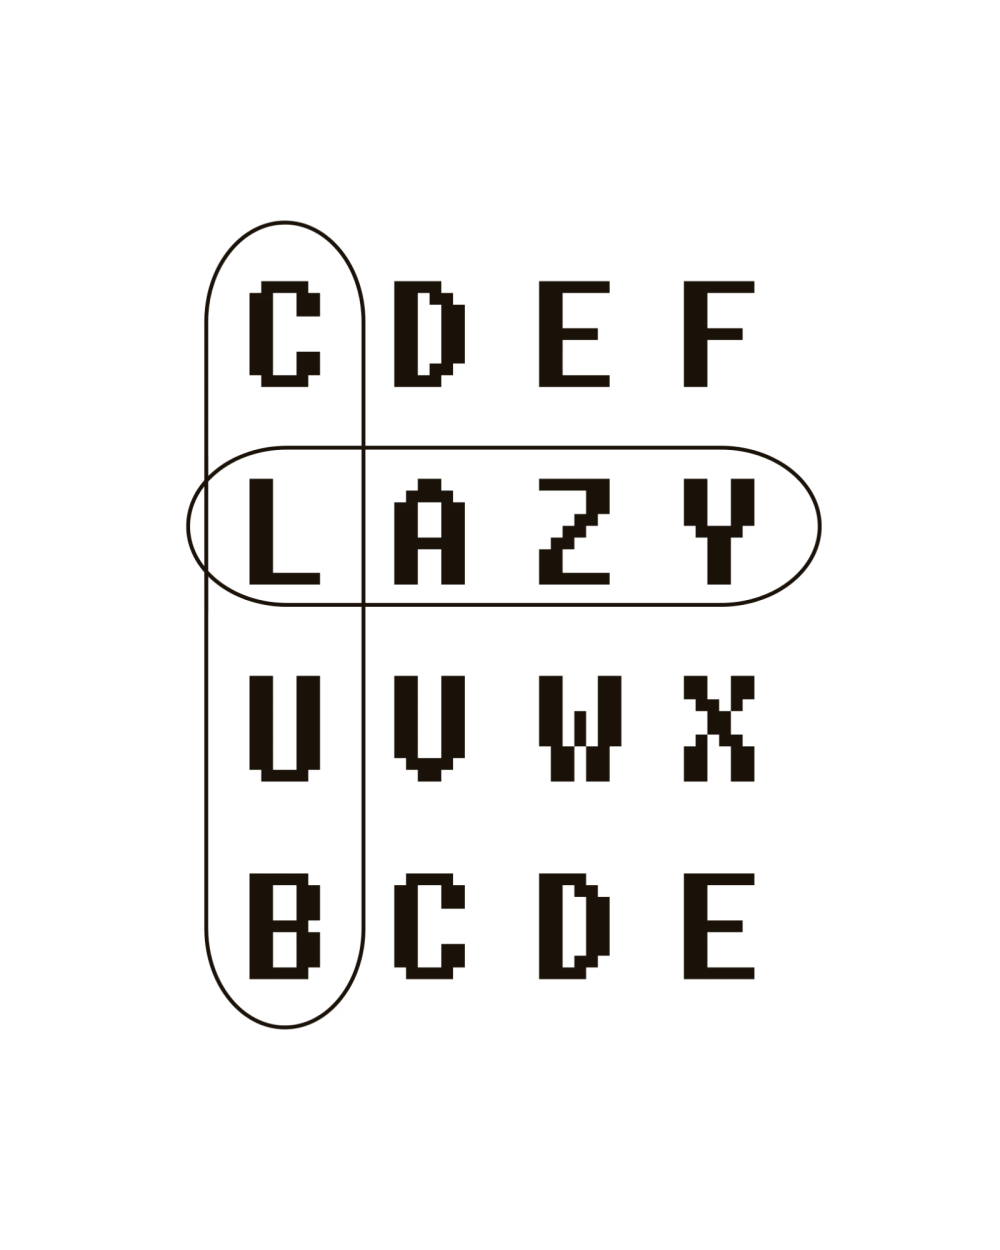
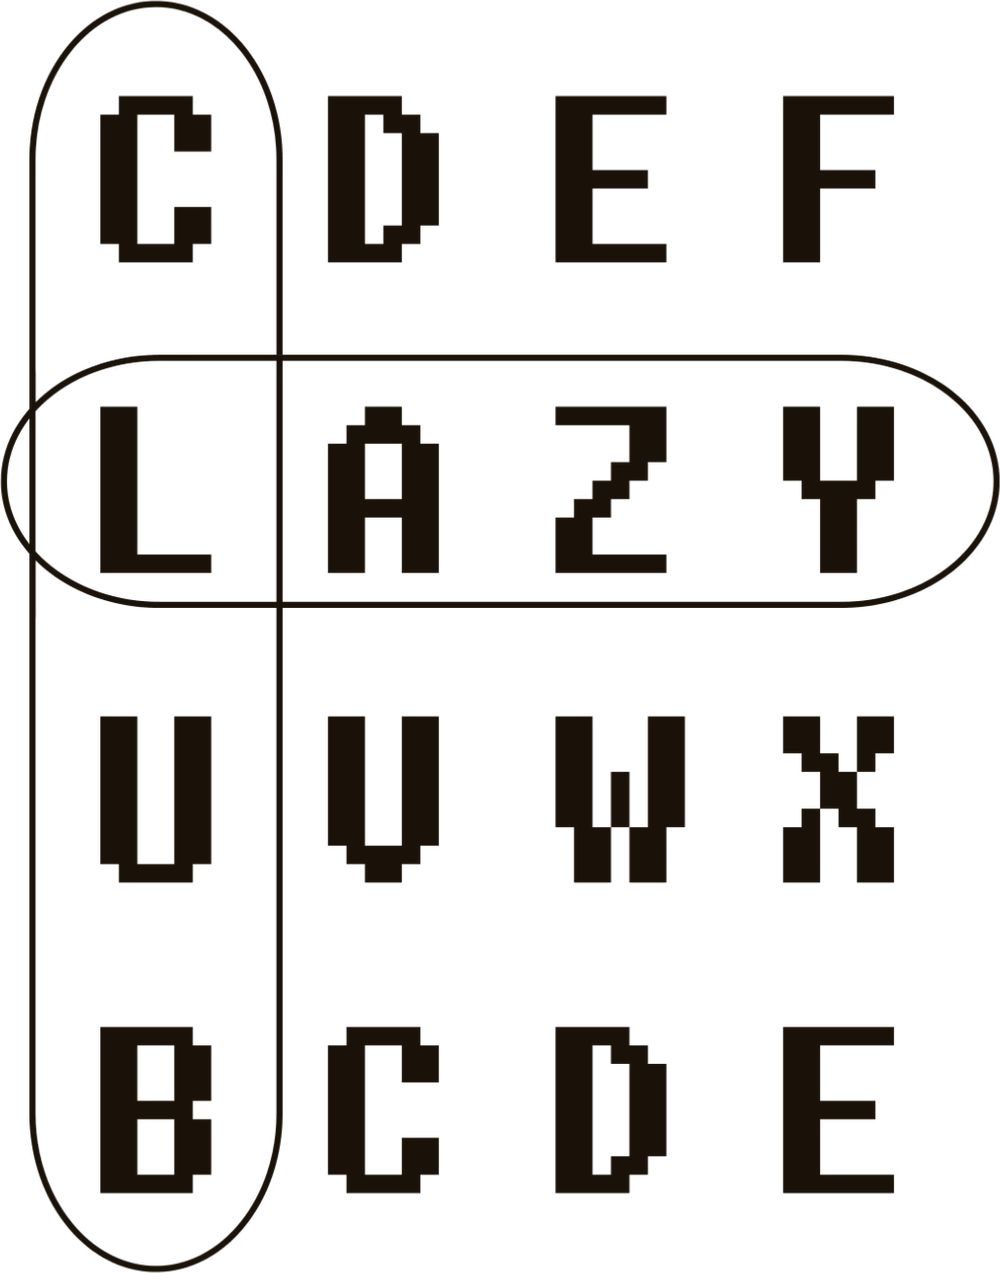
홈 v3 라운드 31: coming soon 마크 전면 확대 + 푸터 전 섹션 동일 유지 (#175)
마크 투명 여백 트림 + height min(72vh, 120vw)로 화면 가득, 푸터는 내부
홈과 완전 동일하게 복원 (comingSoon 셸 분기 제거).

Claude-Session: https://claude.ai/code/session_01LJ1sHdC3MsZFzJSjsYohvM

diff --git a/app/(main)/lazyday/preview/lazyclub-4b073000ddec094f/Shell.tsx b/app/(main)/lazyday/preview/lazyclub-4b073000ddec094f/Shell.tsx
@@ -14,7 +14,8 @@ import styles from "./home.module.css"
 export const BASE = "/preview/lazyclub-4b073000ddec094f"
 
 // 라운드 30 (운영자 2026-08-06): coming soon은 lazy-club.com 전용 페이지(/coming-soon)로 분리 —
-// 이 트리의 홈은 기존 기획안(전체 섹션)을 내부 검토용으로 유지. 모드는 prop으로 전달.
+// 이 트리의 홈은 기존 기획안(전체 섹션)을 내부 검토용으로 유지.
+// 라운드 31: 내비·푸터는 두 페이지가 완전히 동일 (분기 없음).
 
 // 내비 — 라운드 19: 이 페이지의 브랜드는 '레이지 클럽'(허브). 4항목 확정
 // LazyClub(홈) / LazydayBookclub(기수제 랜딩) / OneDayTalk(목록) / About
@@ -27,7 +28,7 @@ const NAV_ITEMS: { label: string; href?: string; pending?: string }[] = [
 const ToastContext = createContext<{ notify: (msg?: string) => void }>({ notify: () => {} })
 export const useToast = () => useContext(ToastContext)
 
-export function WorkroomShell({ children, comingSoon = false }: { children: React.ReactNode; comingSoon?: boolean }) {
+export function WorkroomShell({ children }: { children: React.ReactNode }) {
   const [searchOpen, setSearchOpen] = useState(false)
   const [menuOpen, setMenuOpen] = useState(false)
   const [toast, setToast] = useState<string | null>(null)
@@ -134,21 +135,17 @@ export function WorkroomShell({ children, comingSoon = false }: { children: Reac
 
       <ToastContext.Provider value={{ notify }}>{children}</ToastContext.Provider>
 
-      {/* ── 푸터 — coming soon 페이지에서는 사업자정보(법정 표기)만 남긴다 (라운드 28·30) ── */}
+      {/* ── 푸터 — 전 섹션 동일 유지 (운영자 라운드 31: coming soon도 같은 푸터) ── */}
       <footer className={styles.footer}>
         <div className={styles.footerInner}>
-          {!comingSoon && (
-            <figure className={styles.footerLogo}>
-              {/* 레이지 클럽 투명배경 로고 (운영자 제공, 라운드 19) */}
-              <img src="/linky-lounge/book-club/home-v3/logo-lazyclub.png" alt="레이지 클럽" />
-            </figure>
-          )}
-          {!comingSoon && (
-            <div className={styles.footerDesc}>
-              {/* 브랜드 문단 (About 링크는 라운드 14에서 제거 — 내비 Brand로 대체) */}
-              <p>저마다 다른 삶의 궤적 속 불협화음이 예술의 본질을 관통하며 하나의 선율이 되는 순간을 믿습니다.</p>
-            </div>
-          )}
+          <figure className={styles.footerLogo}>
+            {/* 레이지 클럽 투명배경 로고 (운영자 제공, 라운드 19) */}
+            <img src="/linky-lounge/book-club/home-v3/logo-lazyclub.png" alt="레이지 클럽" />
+          </figure>
+          <div className={styles.footerDesc}>
+            {/* 브랜드 문단 (About 링크는 라운드 14에서 제거 — 내비 Brand로 대체) */}
+            <p>저마다 다른 삶의 궤적 속 불협화음이 예술의 본질을 관통하며 하나의 선율이 되는 순간을 믿습니다.</p>
+          </div>
           <div className={styles.footerBiz}>
             <div>
               <span>주식회사 링키</span>
@@ -175,8 +172,7 @@ export function WorkroomShell({ children, comingSoon = false }: { children: Reac
               <br />
               contact@linkylounge.com
             </div>
-            {/* SNS 아이콘 — 원문 문법(작은 아이콘 행). 자체 드로잉 SVG. coming soon 모드 미노출 */}
-            {!comingSoon && (
+            {/* SNS 아이콘 — 원문 문법(작은 아이콘 행). 자체 드로잉 SVG */}
             <div className={styles.footerSns}>
               <a href="https://instagram.com/lazyday_bookclub" target="_blank" rel="noopener noreferrer" aria-label="인스타그램">
                 <svg width="14" height="14" viewBox="0 0 14 14" fill="none" xmlns="http://www.w3.org/2000/svg">
@@ -194,7 +190,6 @@ export function WorkroomShell({ children, comingSoon = false }: { children: Reac
                 </svg>
               </a>
             </div>
-            )}
           </div>
         </div>
       </footer>

diff --git a/app/(main)/lazyday/preview/lazyclub-4b073000ddec094f/home.module.css b/app/(main)/lazyday/preview/lazyclub-4b073000ddec094f/home.module.css
@@ -298,7 +298,7 @@
 .brandMark { display: flex; justify-content: center; padding: 26px 0 60px; }
 .brandMark img { width: min(340px, 72%); height: auto; display: block; }
 /* coming soon 모드 (라운드 28): 본문이 이미지 하나뿐 — 화면을 채우도록 세로 중앙 정렬 */
-.brandMarkOnly { align-items: center; min-height: calc(100vh - 300px); padding: 0 0 40px; }
+.brandMarkOnly { align-items: center; padding: 0 0 44px; }
 
 /* ── coming soon 타이핑 (라운드 30, B안 채택 — 둥근모꼴) ──
    타이핑(N까지 완주) → 커서 2회 점멸 → 역타이핑 → 반복. 6s 사이클. */
@@ -308,9 +308,12 @@
   font-display: swap;
 }
 .csStack { display: flex; flex-direction: column; align-items: center; }
-.csStack img { width: min(340px, 72vw); height: auto; display: block; }
+/* 라운드 31: 마크를 화면 세로에 거의 꽉 차게 (여백 트림 후 비율 1:1.273).
+   높이 기준 72vh, 좁은 화면에서는 가로 94vw(=120vw 높이)로 전환 → 모바일은 폭을 가득 채움.
+   타이핑 줄·헤더 몫으로 vh는 72까지만 쓴다. */
+.csStack img { height: min(72vh, 120vw); width: auto; max-width: 94vw; display: block; }
 .csTypingRow {
-  margin-top: 36px;
+  margin-top: 30px;
   font-family: "DungGeunMo", monospace;
   font-size: clamp(20px, 3.4vw, 27px);
   letter-spacing: 0.08em;

diff --git a/app/(main)/lazyday/preview/lazyclub-4b073000ddec094f/WorkroomHome.tsx b/app/(main)/lazyday/preview/lazyclub-4b073000ddec094f/WorkroomHome.tsx
@@ -387,9 +387,5 @@ function ComingSoonContent() {
 }
 
 export function WorkroomHome({ comingSoon = false }: { comingSoon?: boolean }) {
-  return (
-    <WorkroomShell comingSoon={comingSoon}>
-      {comingSoon ? <ComingSoonContent /> : <HomeContent />}
-    </WorkroomShell>
-  )
+  return <WorkroomShell>{comingSoon ? <ComingSoonContent /> : <HomeContent />}</WorkroomShell>
 }

diff --git a/docs/redesign/01-decisions.md b/docs/redesign/01-decisions.md
@@ -1,4 +1,12 @@
+
 # 결정 로그 (최신 위)
+
+- 2026-08-06 | 라운드 31: ① coming soon 마크 **화면 세로 가득 확대** —
+  원본 PNG의 투명 여백을 트림(1000×1273)해 실제 잉크가 박스와 일치하도록
+  하고 `height: min(72vh, 120vw)`로 배치 (모바일은 폭 94vw 가득, 웹은
+  세로 72vh) ② **푸터는 두 페이지 완전 동일** — coming soon에서도 로고·
+  브랜드 문단·사업자정보·연락처·SNS 전 섹션 유지 (라운드 28의 축소 폐기,
+  `comingSoon` 셸 분기 제거)
 
 - 2026-08-06 | 라운드 30: **역할 분리 확정** — ① coming soon(마크+둥근모꼴
   타이핑)은 **lazy-club.com 전용**: `/coming-soon` 페이지 신설, 미들웨어가
